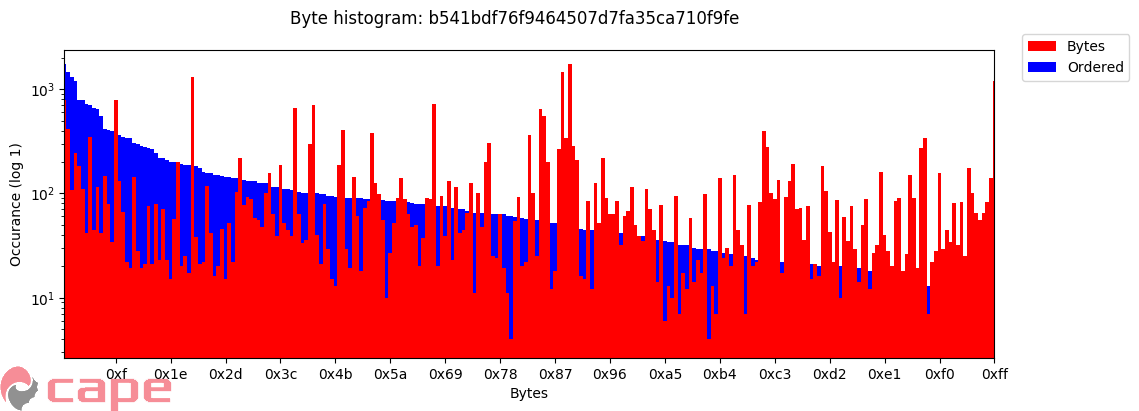
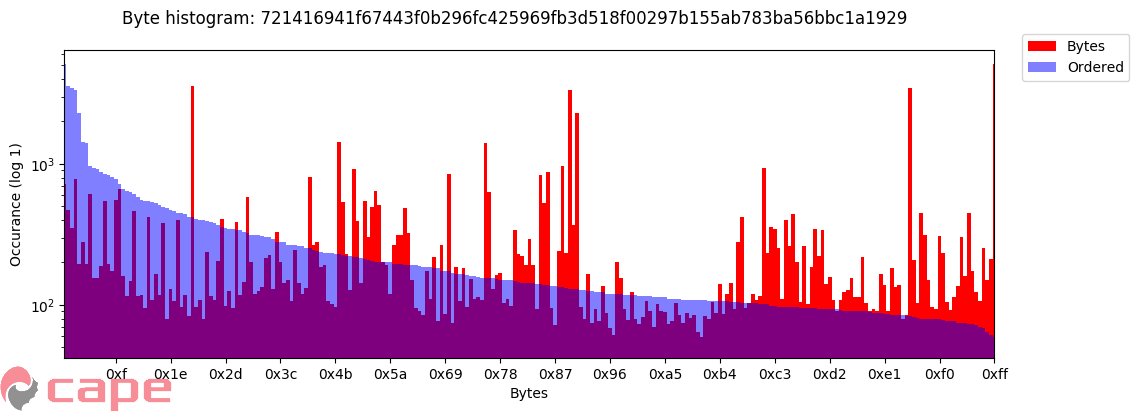
Added --no_order option instead of --ordered

diff --git a/binGraph.py b/binGraph.py
@@ -85,8 +85,8 @@ __figdpi__ = 100
 __ignore_0__ = True
 __bins__ = 1
 __g_log__ = 1
-__ordered__ = True
-def bin_hist(binname, frmt=__figformat__, figname=None, figsize=__figsize__, figdpi=__figdpi__, ignore_0=__ignore_0__, bins=__bins__, g_log=__g_log__, ordered=__ordered__):
+__no_order__ = True
+def bin_hist(binname, frmt=__figformat__, figname=None, figsize=__figsize__, figdpi=__figdpi__, ignore_0=__ignore_0__, bins=__bins__, g_log=__g_log__, ordered=__no_order__):
 
     if not figname:
         figname = 'bin_hist-{}.{}'.format(clean_fname(binname), frmt)
@@ -117,7 +117,7 @@ def bin_hist(binname, frmt=__figformat__, figname=None, figsize=__figsize__, fig
     for x in range(ignore_0, 256):
         ordered_row.append(c[x])
 
-    ax.bar((range(ignore_0, 256)), ordered_row, bins, label='Bytes', color='r', log=g_log, zorder=1)
+    ax.bar((range(ignore_0, 256)), ordered_row, bins, label='Bytes', color='r', log=g_log, zorder=0)
     log.debug('Graphed binary array')
 
     # # Add a byte hist ordered by occurance - shows general distribution
@@ -130,7 +130,7 @@ def bin_hist(binname, frmt=__figformat__, figname=None, figsize=__figsize__, fig
         sorted_row.sort()
         sorted_row.reverse()
 
-        ax.bar((range(ignore_0,256)), sorted_row, bins, label='Ordered', color='b', log=g_log, zorder=0)
+        ax.bar((range(ignore_0,256)), sorted_row, bins, label='Ordered', color='b', log=g_log, zorder=1, alpha=.5)
         log.debug('Graphed ordered binary array')
 
     ax.xaxis.set_major_formatter(ticker.FuncFormatter(lambda x, pos: ('0x%x') % (int(x))))
@@ -466,7 +466,7 @@ if __name__ == '__main__':
     parser_bin_hist.add_argument('--ignore_0', action='store_true', default=__ignore_0__, help='Remove x00 from the graph, sometimes this blows other results due to there being numerous amounts - also see --log')
     parser_bin_hist.add_argument('--bins', type=int, default=__bins__, metavar=__bins__, help='Sample bins')
     parser_bin_hist.add_argument('--log', type=int, default=__g_log__, metavar=__g_log__, help='Amount of \'log\' to apply to the graph')
-    parser_bin_hist.add_argument('--ordered', action='store_true', default=__ordered__, help='Add an ordered histogram - show overall distribution')
+    parser_bin_hist.add_argument('--no_order', action='store_false', default=__no_order__, help='Remove the ordered histogram - With it on, it shows the overall distribution')
 
     args = parser.parse_args()
 
@@ -509,7 +509,7 @@ if __name__ == '__main__':
         args.ignore_0 = __ignore_0__
         args.bins = __bins__
         args.log = __g_log__
-        args.ordered = __ordered__
+        args.ordered = __no_order__
 
     else:
         graph_types = [args.graphtype]
@@ -541,7 +541,7 @@ if __name__ == '__main__':
         if 'bin_hist' in graph_types:
             __save_fn__ = save_fn.format('bin_hist')
             log.debug('+ Generating bin_hist from "{}"'.format(file))
-            bin_hist(binname=file, frmt=args.format, figname=__save_fn__, figsize=(args.figsize[0], args.figsize[1]), figdpi=args.dpi, ignore_0=args.ignore_0, bins=args.bins, g_log=args.log, ordered=args.ordered)
+            bin_hist(binname=file, frmt=args.format, figname=__save_fn__, figsize=(args.figsize[0], args.figsize[1]), figdpi=args.dpi, ignore_0=args.ignore_0, bins=args.bins, g_log=args.log, ordered=args.no_order)
 
         log.debug('+++ Complete: "{}"'.format(file))
 

diff --git a/README.md b/README.md
@@ -58,7 +58,8 @@ optional arguments:
 !MALWARE! From: https://cape.contextis.com/file/CAPE/9472/ad5a729e7c4047c946601e5533b1dfa3983a0d84da61b743dda1ca3b1c956ec5/
 ```
 $ python binGraph.py bin_hist --help
-usage: binGraph.py bin_hist [-h] [--ignore_0] [--bins 1] [--log 1] [--ordered]
+usage: binGraph.py bin_hist [-h] [--ignore_0] [--bins 1] [--log 1]
+                            [--no_order]
 
 optional arguments:
   -h, --help  show this help message and exit
@@ -66,5 +67,6 @@ optional arguments:
               due to there being numerous amounts - also see --log
   --bins 1    Sample bins
   --log 1     Amount of 'log' to apply to the graph
-  --ordered   Add an ordered histogram - show overall distribution
+  --no_order  Remove the ordered histogram - With it on, it shows the overall
+              distribution
 ```
